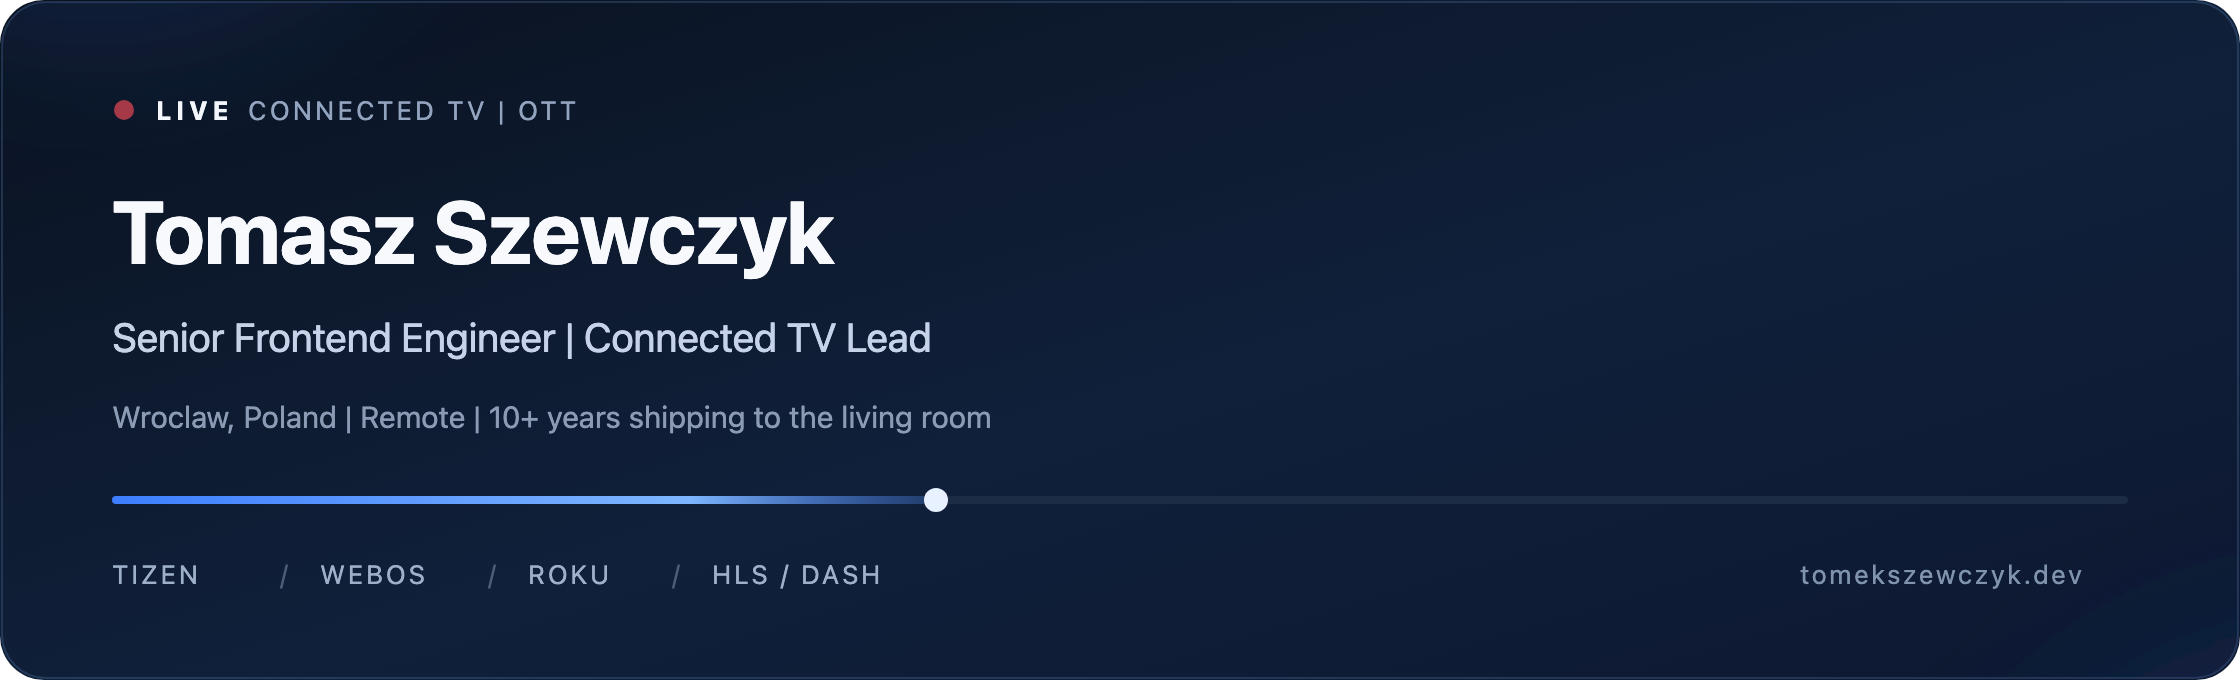
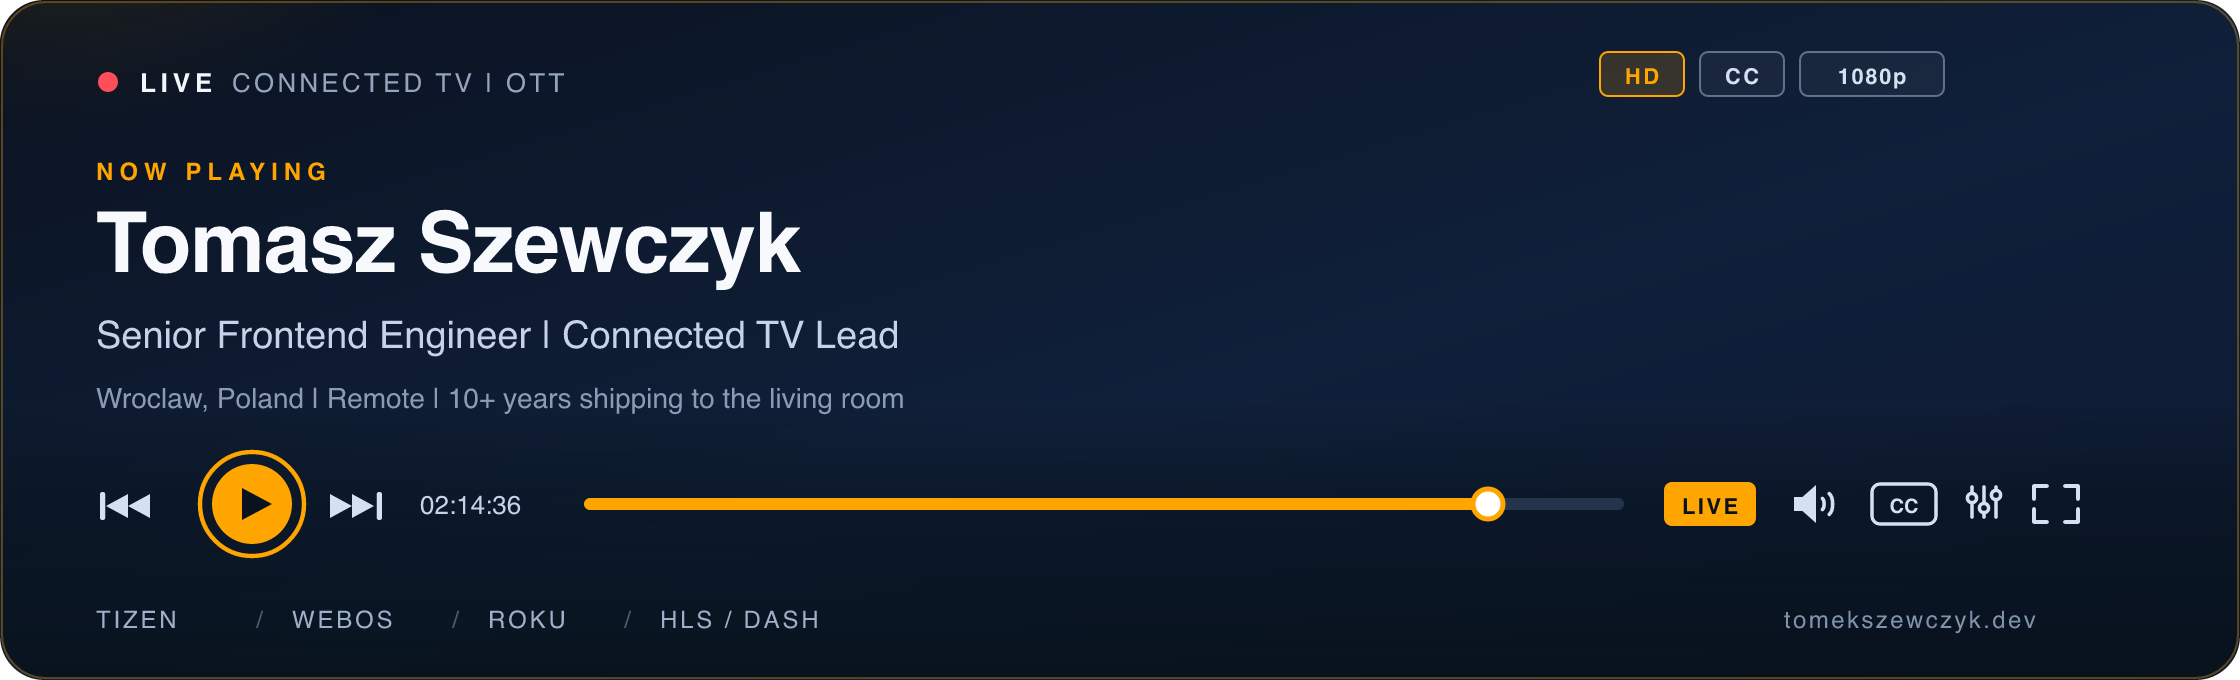
style(readme): remove GitHub link and update header SVG for improved aesthetics and functionality

diff --git a/README.md b/README.md
@@ -9,8 +9,6 @@
 &nbsp;
 <a href="https://www.linkedin.com/in/tomasz-szewczyk-346032170"><img src="https://img.shields.io/badge/LinkedIn-Tomasz_Szewczyk-0A66C2?style=flat-square&logo=linkedin&logoColor=white" alt="LinkedIn" /></a>
 &nbsp;
-<a href="https://github.com/Szefczuk"><img src="https://img.shields.io/badge/GitHub-Szefczuk-181717?style=flat-square&logo=github&logoColor=white" alt="GitHub" /></a>
-&nbsp;
 <a href="mailto:tomekszewczyk0@gmail.com"><img src="https://img.shields.io/badge/Email-tomekszewczyk0@gmail.com-D14836?style=flat-square&logo=gmail&logoColor=white" alt="Email" /></a>
 <br>
 
